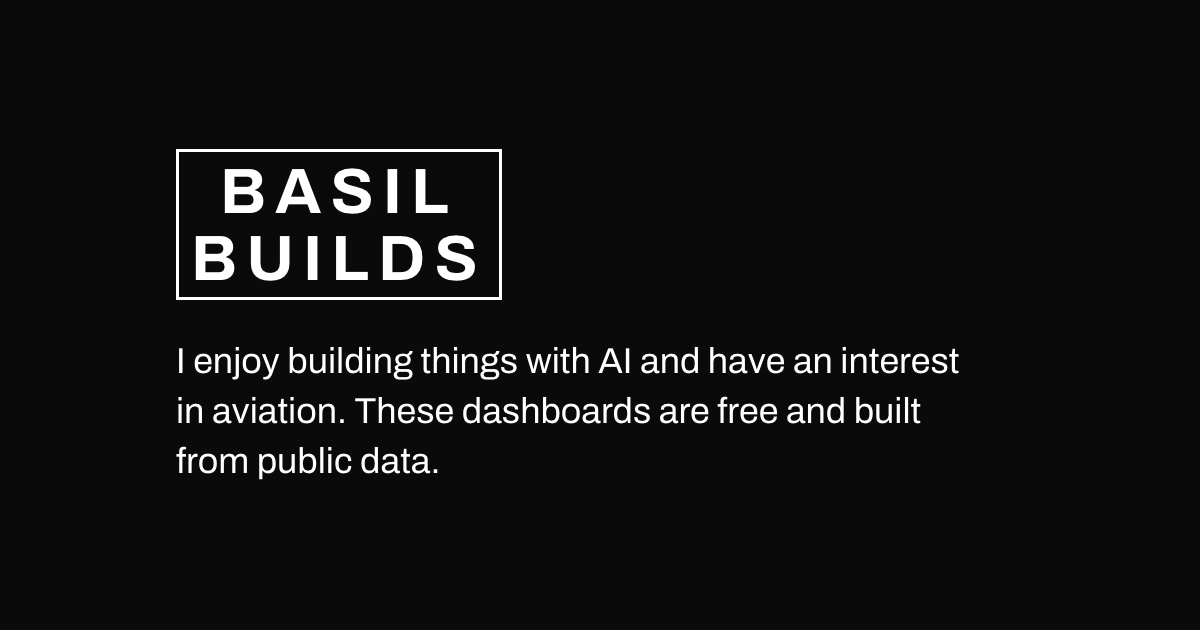
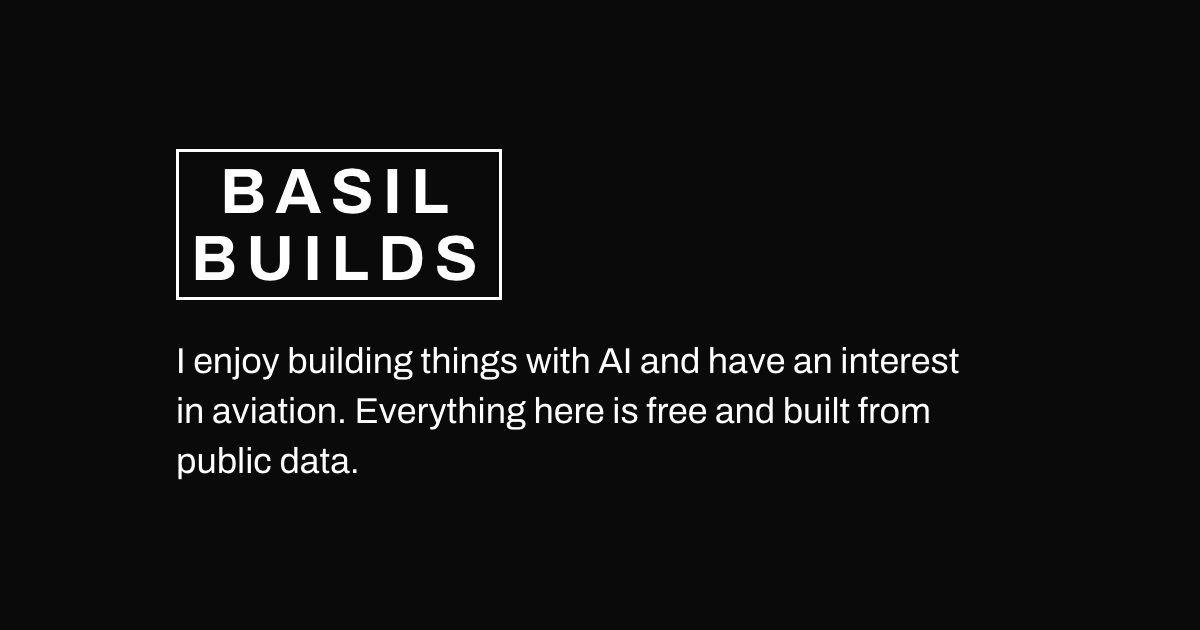
Add the Vertiport Surface Planner; section becomes Dashboards and tools

Changed region(s): [[0.1233, 0.6333, 0.7708, 0.754]]

diff --git a/index.html b/index.html
@@ -4,9 +4,9 @@
 <meta charset="utf-8">
 <meta name="viewport" content="width=device-width, initial-scale=1">
 <title>Basil Builds</title>
-<meta name="description" content="Public dashboards by Basil Yap on drones and advanced air mobility.">
+<meta name="description" content="Public dashboards and tools by Basil Yap on drones and advanced air mobility.">
 <meta property="og:title" content="Basil Builds">
-<meta property="og:description" content="Public dashboards by Basil Yap on drones and advanced air mobility.">
+<meta property="og:description" content="Public dashboards and tools by Basil Yap on drones and advanced air mobility.">
 <meta property="og:url" content="https://basilbuildsai.github.io/">
 <meta property="og:image" content="https://basilbuildsai.github.io/og.png">
 <meta property="og:image:width" content="1200">
@@ -41,10 +41,10 @@ footer{border-top:2px solid var(--black);margin-top:36px;padding-top:14px;font-s
 <body>
 <header><div class="wrap">
   <h1 class="logo">BASIL<br>BUILDS</h1>
-  <p>I enjoy building things with AI and have an interest in aviation. These dashboards are free and built from public data.</p>
+  <p>I enjoy building things with AI and have an interest in aviation. Everything here is free and built from public data.</p>
 </div></header>
 <main class="wrap">
-  <h2 class="lab">Dashboards</h2>
+  <h2 class="lab">Dashboards and tools</h2>
 
   <a class="card" href="https://basilbuildsai.github.io/dfr-program-map/">
     <img src="https://basilbuildsai.github.io/dfr-program-map/og-v3.jpg" alt="" width="1200" height="630">
@@ -65,6 +65,13 @@ footer{border-top:2px solid var(--black);margin-top:36px;padding-top:14px;font-s
     <div><h3 class="x">AAM Fleet Registry</h3>
       <p>The aircraft that eVTOL, eSTOL and hybrid electric companies hold on the FAA registry, and where they fly. Rebuilt every night.</p>
       <span class="go">Open the registry</span></div>
+  </a>
+
+  <a class="card" href="https://basilbuildsai.github.io/vertiport-surface-planner/">
+    <img src="https://basilbuildsai.github.io/vertiport-surface-planner/og.jpg" alt="" width="1200" height="627" loading="lazy">
+    <div><h3 class="x">Vertiport Surface Planner</h3>
+      <p>Lays out the FAA's draft vertiport standard (AC 150/5390-4) on any U.S. site, with airspace and Part 77 surfaces, in 2D and 3D.</p>
+      <span class="go">Open the planner</span></div>
   </a>
 
   <footer>Basil Yap</footer>
